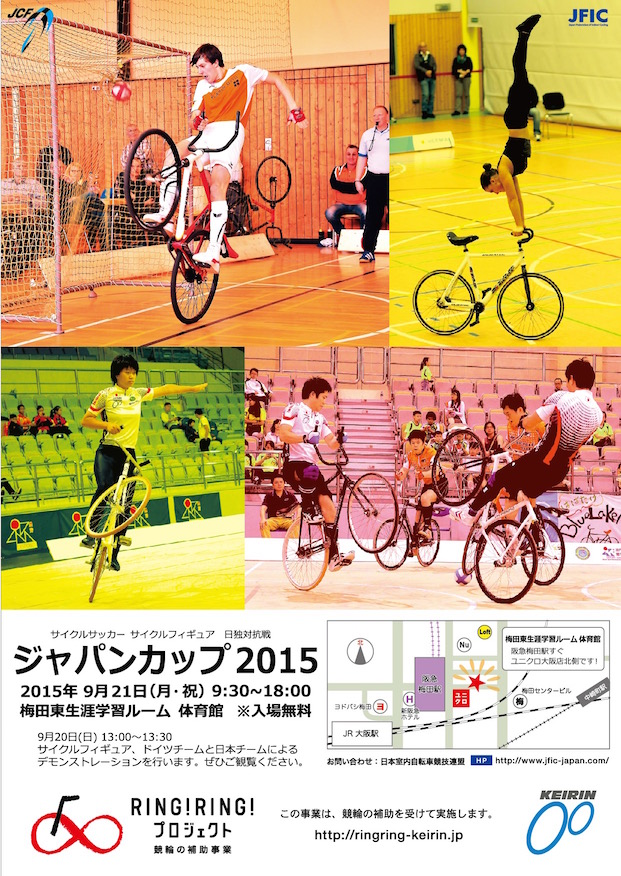
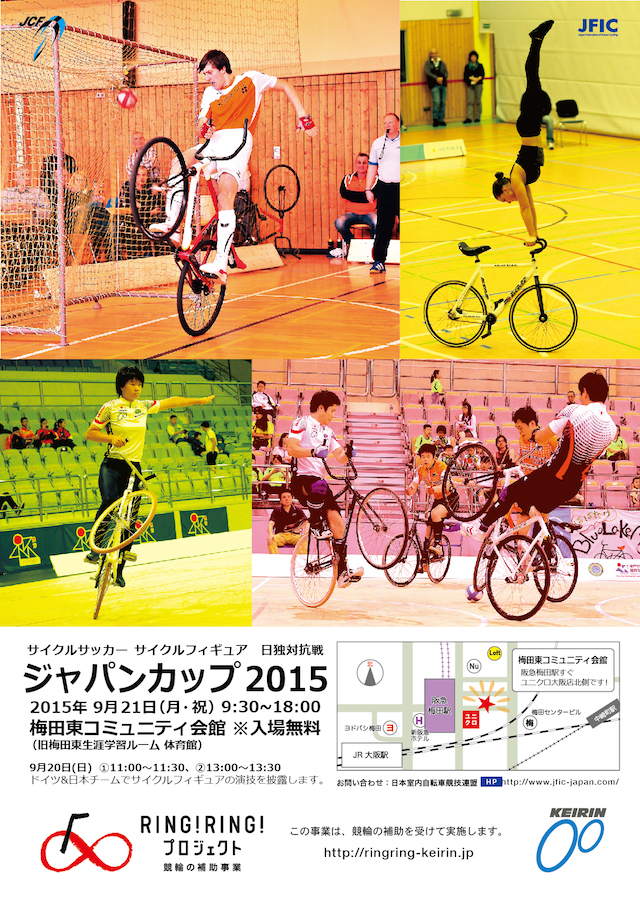
upload the poster

diff --git a/jfic/competition/2015/2015japancup.html b/jfic/competition/2015/2015japancup.html
@@ -59,12 +59,27 @@
                     <h3 class="heading2">開催情報</h3>
                     <dl>
                         <dt>日時</dt>
-                        <dd>２０１５年９月２１日（月・祝）</dd>
+                        <dd><h4>サイクルサッカー本戦</h4>
+                        ２０１５年９月２１日（月・祝）</dd>
+                        <dd><small>予選：9月19日(土)、9月20日（日）</small></dd>
+                        <br>
+                        <dd>
+                            <h4>サイクルフィギュアデモンストレーション</h4>
+                            ２０１５年９月２０日（日）
+                            <ol>
+                                <li>１１：００ ー １１：３０</li>
+                                <li>１３：００ ー １３：３０</li>
+                            </ol>
+                        </dd>
+                        
+                        
                         <dt>試合会場</dt>
-                        <dd>梅田東生涯学習ルーム体育館</dd>
+                        <dd><h4>本戦・サイクルフィギュアデモンストレーション</h4>
+                        梅田東コミュニティ会館（梅田東生涯学習ルーム体育館）</dd>
                         <dd>阪急 梅田駅から徒歩３分</dd>
-                        <dt><small>予選およびサイクルフィギュアデモンストレーション</small></dt>
-                        <dd><small>9月19日(土)、9月20日（日）@関西大学</small></dd>
+
+                        <dd><h5>サイクルサッカー予選</h5>
+                        <small>関西大学千里山キャンパス</small></dd>
                     </dl>
                     <p>全体スケジュールは<a href="doc/japan-cup-2015/schedule_web.pdf">こちらのPDF</a>を参照願います。</p>
                     <h3 class="heading2">大会要項</h3>
@@ -89,17 +104,12 @@
                             <li>Ms. Sandra Sprinkmeier</li>
                         </ul>
                         
-                        <h3 class="heading2">会場地図</h3>
-                            <div class="map">
-                                <iframe class="map__item--google"
-                                    src="https://www.google.com/maps/embed?pb=!1m14!1m8!1m3!1d13119.887629440429!2d135.4997191!3d34.7058885!3m2!1i1024!2i768!4f13.1!3m3!1m2!1s0x0%3A0xb50e19881a80ce40!2z5qKF55Sw5p2x55Sf5rav5a2m57-S44Or44O844Og5L2T6IKy6aSo!5e0!3m2!1sja!2sjp!4v1440538418702" width="600" height="450" frameborder="0" style="border:0" allowfullscreen></iframe>
-                            </div>
-                        
-                        
-                        <h3 class="heading2">詳細</h3>
-                        <p>近日更新予定！</p>
-                        
-                    
+                        <h3 class="heading2">会場地図</h3> 
+                        <div class="map">
+                            <iframe class="map__item--google"
+                                    src="https://www.google.com/maps/embed?pb=!1m14!1m8!1m3!1d13119.887629440429!2d135.4997191!3d34.7058885!3m2!1i1024!2i768!4f13.1!3m3!1m2!1s0x0%3A0xb50e19881a80ce40!2z5qKF55Sw5p2x55Sf5rav5a2m57-S44Or44O844Og5L2T6IKy6aSo!5e0!3m2!1sja!2sjp!4v1440538418702" width="600" height="450" frameborder="0" style="border:0" allowfullscreen>
+                            </iframe>
+                        </div>                    
 
                 </div> <!-- l-contents__top -->
             </div> <!-- l-contents -->

diff --git a/jfic/index.html b/jfic/index.html
@@ -160,12 +160,12 @@
                 <div class="l-contents__aside l-margin__bottom">
 
                     <div class="heading">
-                        <h2>Facebook注目情報</h2>
+                        <h2>2015ジャパンカップ</h2>
                     </div>
 
                     <div class="sns">
-
-                       <div id="fb-root"></div><script>(function(d, s, id) {  var js, fjs = d.getElementsByTagName(s)[0];  if (d.getElementById(id)) return;  js = d.createElement(s); js.id = id;  js.src = "//connect.facebook.net/ja_JP/sdk.js#xfbml=1&version=v2.3";  fjs.parentNode.insertBefore(js, fjs);}(document, 'script', 'facebook-jssdk'));</script><div class="fb-post" data-href="https://www.facebook.com/indoorcycling.jp/posts/1146258855401739:0" data-width="500"><div class="fb-xfbml-parse-ignore"><blockquote cite="https://www.facebook.com/indoorcycling.jp/posts/1146258855401739:0"><p>&#x3010;&#x7b2c;13&#x56de;&#x30a2;&#x30b8;&#x30a2;&#x5ba4;&#x5185;&#x81ea;&#x8ee2;&#x8eca;&#x7af6;&#x6280;&#x9078;&#x624b;&#x6a29;&#x3011;&#x3044;&#x3088;&#x3044;&#x3088;&#x4eca;&#x9031;&#x672b;8&#x6708;23&#x65e5;(&#x65e5;)&#x30de;&#x30ab;&#x30aa;&#x3067;&#x30a2;&#x30b8;&#x30a2;&#x9078;&#x624b;&#x6a29;&#x304c;&#x884c;&#x308f;&#x308c;&#x307e;&#x3059;&#xff01;&#xff01;&#x521d;&#x6d77;&#x5916;&#x9060;&#x5f81;&#x306e;&#x9078;&#x624b;&#x3082;&#x3044;&#x308b;&#x3001;&#x82e5;&#x3044;&#x65e5;&#x672c;&#x4ee3;&#x8868;&#x30c1;&#x30fc;&#x30e0;&#x3067;&#x3059;&#x3002;&#x5fdc;&#x63f4;&#x3088;&#x308d;&#x3057;&#x304f;&#x304a;&#x9858;&#x3044;&#x3057;&#x307e;&#x3059;&#x3002;...</p>Posted by <a href="https://www.facebook.com/indoorcycling.jp">サイクルサッカー・サイクルフィギュア（室内自転車競技) Indoor-cycling</a> on&nbsp;<a href="https://www.facebook.com/indoorcycling.jp/posts/1146258855401739:0">2015年8月19日</a></blockquote></div></div>
+                        
+                        <a href="competition/2015/doc/japan-cup-2015/japancup_image_org.jpg"><img src="competition/2015/doc/japan-cup-2015/japancup_image.jpg" alt="Japan Cup 2015" style="width:100%"></a>
 
 
                         <div class="l-margin__bottom"></div>
